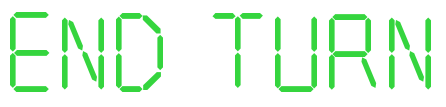
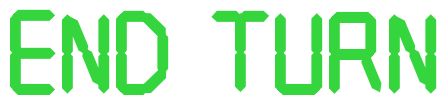
test

Changed region(s): [[0.4664, 0.0841, 0.991, 0.8972], [0.0, 0.0841, 0.3789, 0.8972]]

diff --git a/game/index.js b/game/index.js
@@ -825,8 +825,8 @@ var P1 = new Phaser.Class({
         });
         cb = this.add.image(125, 400, 'cb').setInteractive({ useHandCursor: true  } );
         cb.setScale(1/8);
-        var tend = this.add.image(15, 200, 'END').setInteractive({ useHandCursor: true  } );
-        tend.setScale(1/8);
+        var tend = this.add.image(25, 200, 'END').setInteractive({ useHandCursor: true  } );
+        tend.setScale(1);
         hove(cb, this, 'cb');
         c5 = this.add.image(250, 400, cards[5]).setInteractive({ useHandCursor: true  } );
         c5.setScale(1/8);
